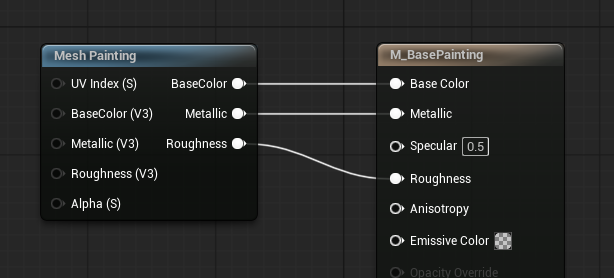
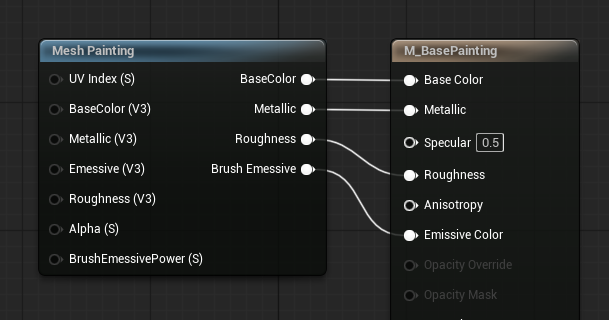
Update docs for GPU preview and multiplayer changes

diff --git a/docs/systems/painting-controller.md b/docs/systems/painting-controller.md
@@ -16,7 +16,7 @@ The controller handles the player-side part of the painting workflow:
 - Finds the correct `RuntimeMeshPaintTargetComponent`.
 - Applies the current brush settings.
 - Shows the runtime color picker widget.
-- Displays the brush cursor and brush area preview.
+- Displays the brush cursor and GPU brush area preview.
 - Controls paint-mode orbit, pan, zoom, and movement behavior.
 - Sends multiplayer paint commands when the target has replication enabled.
 
@@ -153,24 +153,32 @@ The default `T_Brush` texture is already prepared this way: the painted tip is t
 
 ## Brush Area Preview
 
-The brush area preview draws the visible ring on top of the hit surface.
+The brush area preview is now generated through the same GPU projection path used by painting.
+
+The controller resolves the hit under the cursor, asks the target component to update its `BrushPreviewMaskRenderTarget`, and the `Mesh Painting` material function displays that mask on the mesh. This means the preview is not a separate world-space brush mesh anymore. It is a render-target mask on the painted material, so it follows the paintable UV/surface result much more closely.
 
 ![Brush area preview settings](/painting-controller/04-brush-preview-settings.png)
 
 | Setting | Purpose |
 | --- | --- |
 | `Enable Brush Area Preview` | Enables or disables the surface ring preview. |
-| `Brush Area Preview Line Thickness` | Base line thickness. |
-| `Brush Area Preview Thickness Brush Size Multiplier` | Adds thickness based on brush size. |
-| `Brush Area Preview Color` | Preview line color. |
-| `Brush Area Preview Emissive Intensity` | Brightness multiplier for the preview color. |
-| `Brush Area Preview Surface Offset` | Small offset from the surface to avoid depth fighting. |
-| `Brush Area Preview Segments` | Number of points used to draw the ring. |
-| `Brush Area Preview Smoothing Speed` | Smooths preview movement across the surface. |
+| `Brush Area Preview Line Thickness` | Base thickness of the preview ring. |
+| `Brush Area Preview Thickness Brush Size Multiplier` | Adds extra line thickness as brush size increases. |
+| `Brush Area Preview Color` | Tint multiplied with the current brush color. White keeps the ring in the active paint color. |
+| `Brush Area Preview Emissive Intensity` | Brightness multiplier for the preview mask. This makes the ring readable without using the old brush mesh preview. |
 
 ![Brush area preview in game](/painting-controller/05-brush-preview-runtime.png)
 
-The preview follows the same paint target filtering and trace channel as painting. If the target cannot be resolved, the preview is hidden after a short grace period.
+The material must connect the `Brush Emissive` output from the `Mesh Painting` material function to `Emissive Color`. If that output is not connected, painting can still work, but the brush area preview will not be visible on the mesh.
+
+The preview follows the same paint target filtering and trace channel as painting. It is hidden when the cursor is over the color picker UI or when eyedropper mode is active. Short transient trace misses are held briefly to avoid visible flicker.
+
+Advanced Blueprint-only tuning:
+
+| Setting | Purpose |
+| --- | --- |
+| `Brush Area Preview Opacity` | Alpha multiplier for the preview mask. |
+| `Brush Area Preview Brush Size Scale` | Multiplies preview radius without changing the actual paint brush size. Keep this at `1.0` unless you intentionally want preview-only scaling. |
 
 ## Camera and Movement
 
@@ -234,7 +242,9 @@ The component exposes Blueprint events for paint mode and input state changes.
 
 The controller is the multiplayer submission point for player input.
 
-When the target has `Replicate Runtime Paint` enabled, the controller applies local prediction first, then submits a compact paint command batch to the server. The target component validates and stores the authoritative paint history. Late join and replay details are covered in [Multiplayer](/systems/multiplayer).
+When the target has `Replicate Runtime Paint` enabled, the controller applies local prediction first, then submits a compact paint command batch to the server.
+
+For skeletal meshes, the command also carries screen projection data so other clients can reproduce the same GPU projected brush without using the old CPU skeletal UV fallback path. The target component validates and stores the authoritative paint history. Late join and replay details are covered in [Multiplayer](/systems/multiplayer).
 
 ## Common Mistakes
 
@@ -245,3 +255,4 @@ When the target has `Replicate Runtime Paint` enabled, the controller applies lo
 - `Load Default Input Assets` is disabled but custom input actions or mapping contexts were not assigned.
 - Heavy Blueprint logic is bound to `OnPaintTriggered`, causing hitches during continuous strokes.
 - The cursor is over the color picker UI, so painting and preview are intentionally blocked.
+- The material does not connect `Brush Emissive` to `Emissive Color`, so the GPU brush area preview mask is generated but not visible.

diff --git a/docs/guide/material-setup.md b/docs/guide/material-setup.md
@@ -7,14 +7,17 @@ For a basic setup, add the `Mesh Painting` function to your material and connect
 - `BaseColor` to `Base Color`
 - `Metallic` to `Metallic`
 - `Roughness` to `Roughness`
+- `Brush Emissive` to `Emissive Color`
 
 ![Mesh Painting material function setup](/material-setup/01-mesh-painting-function.png)
 
 ## Default Setup
 
-You do not have to plug anything into the function inputs for a first test. If the inputs are left empty, the function uses its default values and the mesh can still receive runtime paint.
+You do not have to plug anything into the function inputs for a first paint test. If the inputs are left empty, the function uses its default values and the mesh can still receive runtime paint.
 
 This is the fastest way to confirm that the paint target and painting controller are working correctly.
+
+For the brush area preview to appear on the mesh, connect `Brush Emissive` to `Emissive Color`. The paint result can still work without this connection, but the GPU preview ring will not be visible.
 
 ## Using Your Own Material Values
 
@@ -23,8 +26,34 @@ If your mesh already has textures or custom material values, connect them to the
 - `BaseColor` for the original base color or base color texture.
 - `Metallic` for the original metallic value or texture.
 - `Roughness` for the original roughness value or texture.
+- `Emissive` for your material's own emissive color, if it already has one.
 
 When you paint, the runtime paint layer is drawn over these values. In the painted area, the paint becomes visible instead of the original texture.
+
+## Brush Preview Emissive
+
+`Brush Emissive` is the output used by the GPU brush area preview. It shows the ring that marks where the brush will paint.
+
+Use `BrushEmissivePower` when you want to control the brightness of the preview inside the material. The controller also has `Brush Area Preview Emissive Intensity`, so the usual setup is:
+
+- Keep `BrushEmissivePower` at its default unless the material needs a different preview strength.
+- Adjust `Brush Area Preview Emissive Intensity` on `PaintingModeControllerComponent` for gameplay/UI tuning.
+- Keep `Brush Area Preview Color` white if the preview should follow the current paint color.
+
+This emissive preview is visual feedback only. It is not the stored paint color.
+
+## Material Settings Painting
+
+The plugin can paint base color and, when enabled on the target component, material settings.
+
+`Create Painted Material Settings Render Target` on `RuntimeMeshPaintTargetComponent` creates the additional render target used for painted metallic and roughness data. Keep it enabled if you want the `Metallic` and `Roughness` outputs from the material function to change when painting.
+
+`Initial Material Settings Color` uses the red and green channels as the starting material settings:
+
+- `R` = initial metallic
+- `G` = initial roughness
+
+The plugin manages the remaining mask channels internally.
 
 ## Alpha
 
@@ -46,5 +75,6 @@ Before testing in a full character or production material, verify the setup on a
 
 - Add `RuntimeMeshPaintTargetComponent` to the mesh actor.
 - Add the `Mesh Painting` material function to the mesh material.
+- Connect `Brush Emissive` to `Emissive Color` if you want the brush area preview.
 - Make sure `UV Index` matches the target component's `UVChannel`.
 - Enter paint mode and confirm that the brush paints the expected surface.

diff --git a/docs/systems/paint-target.md b/docs/systems/paint-target.md
@@ -13,6 +13,7 @@ The paint target component is responsible for the mesh-side part of the system:
 - Finds the mesh component that should receive paint.
 - Creates the runtime color render target.
 - Optionally creates the material settings render target.
+- Creates the brush preview mask render target.
 - Assigns those render targets to dynamic material instances.
 - Resolves hit data into UV and surface data.
 - Applies paint commands locally.
@@ -46,8 +47,17 @@ The `Runtime Target` section controls the render targets and material texture bi
 | `Initial Material Settings Color` | Starting clear color for the material settings target. |
 | `Painted Color Texture Parameter Name` | Material texture parameter that receives the color paint target. |
 | `Painted Material Settings Texture Parameter Name` | Material texture parameter that receives the material settings target. |
+| `Brush Preview Mask Texture Parameter Name` | Material texture parameter that receives the GPU brush preview mask. |
 
 In most cases, keep the texture parameter names at their defaults and set up the material through the plugin's `Mesh Painting` material function.
+
+The default parameter names expected by the plugin material function are:
+
+| Parameter | Purpose |
+| --- | --- |
+| `PaintedColorTexture` | Runtime base color paint texture. |
+| `PaintedMaterialSettingsTexture` | Runtime metallic/roughness paint texture. |
+| `BrushPreviewMaskTexture` | Runtime brush preview ring mask. |
 
 ## Mesh Targets
 
@@ -73,6 +83,8 @@ This must match the `UV Index` used by the `Mesh Painting` material function. If
 - A value greater than `0.0` rejects fallback results if the resolved triangle is farther than that distance from the hit point.
 
 This does not control brush size or preview size.
+
+The current GPU projected painting path avoids using skeletal fallback during the normal brush hot path. Keep this setting at its default unless you are calling lower-level hit resolving functions that explicitly need fallback behavior.
 
 ## UV Island Clip
 

diff --git a/docs/systems/multiplayer.md b/docs/systems/multiplayer.md
@@ -76,13 +76,17 @@ For late join to work correctly, keep `Max Replicated Paint Commands` at `0` unl
 
 The plugin does not send render target pixels over the network.
 
-Instead, every accepted paint action is stored as a compact command containing the target, mesh target index, UV channel, stroke id, brush ray, brush center, brush normal, brush size, color, material settings, and erase flag.
+Instead, every accepted paint action is stored as a compact command containing the target, mesh target index, UV channel, stroke id, brush ray, brush center, brush normal, brush size, color, material settings, erase flag, and optional screen projection data.
+
+Skeletal mesh paint commands include screen projection data. This lets every client reproduce the same GPU projected brush result without relying on per-poly collision, `FindCollisionUV`, or the old CPU skeletal UV fallback path.
 
 ### Local Prediction
 
 When a local player paints, the controller applies the paint immediately on that client for responsive feedback.
 
 The same command is then sent to the server. When the server accepts it, other clients receive and apply the command locally. The original painting client skips duplicate application of its own predicted command.
+
+Changing color, metallic, roughness, brush size, or eraser state only updates local brush settings. A history entry is created only when an actual paint command is applied.
 
 ### Server Validation
 
@@ -96,6 +100,7 @@ Validation checks include:
 - The mesh target index is valid.
 - The brush size is within `Max Replicated Brush Size`.
 - The brush ray and normal are valid.
+- Skeletal mesh commands include valid screen projection data.
 - Optional distance validation passes when `Max Replicated Paint Distance` is greater than `0`.
 
 ### Late Join Replay
@@ -103,6 +108,8 @@ Validation checks include:
 Late-joining clients initialize their local runtime render targets, receive the replicated command history, and replay the commands over multiple ticks.
 
 `Replicated Paint Replay Commands Per Tick` controls how quickly the history is replayed. Higher values catch up faster, while lower values reduce hitch risk when the history is large.
+
+Replicated commands are queued by `CommandId` before replay. If a command cannot be applied yet because the local runtime target is not ready, replay pauses instead of dropping the command.
 
 ### Dedicated Server Behavior
 

diff --git a/docs/guide/quick-start.md b/docs/guide/quick-start.md
@@ -42,6 +42,8 @@ If the trace does not hit the mesh, the brush preview cannot lock onto the surfa
 
 Open the mesh material and set up the `Mesh Painting` material function correctly.
 
+For the normal setup, connect `BaseColor`, `Metallic`, `Roughness`, and `Brush Emissive` to the matching material outputs. `Brush Emissive` is required for the on-mesh brush area preview.
+
 For more information about the material setup, see [Material Setup](/guide/material-setup).
 
 ![Mesh Painting material function connected to a material](/quick-start/06-material-function.png)
@@ -80,8 +82,8 @@ The controller includes a `Control Mode` option:
 
 If `bLoadDefaultInputAssets` is enabled, the component loads the plugin's ready-to-use input assets:
 
-- `/RuntimeMeshPainting/Input/IMC_PaintingMode`
-- `/RuntimeMeshPainting/Input/IMC_PaintingModeToggle`
+- `/MeshPaintingCore/Input/IMC_PaintingMode`
+- `/MeshPaintingCore/Input/IMC_PaintingModeToggle`
 
 Default quick controls:
 